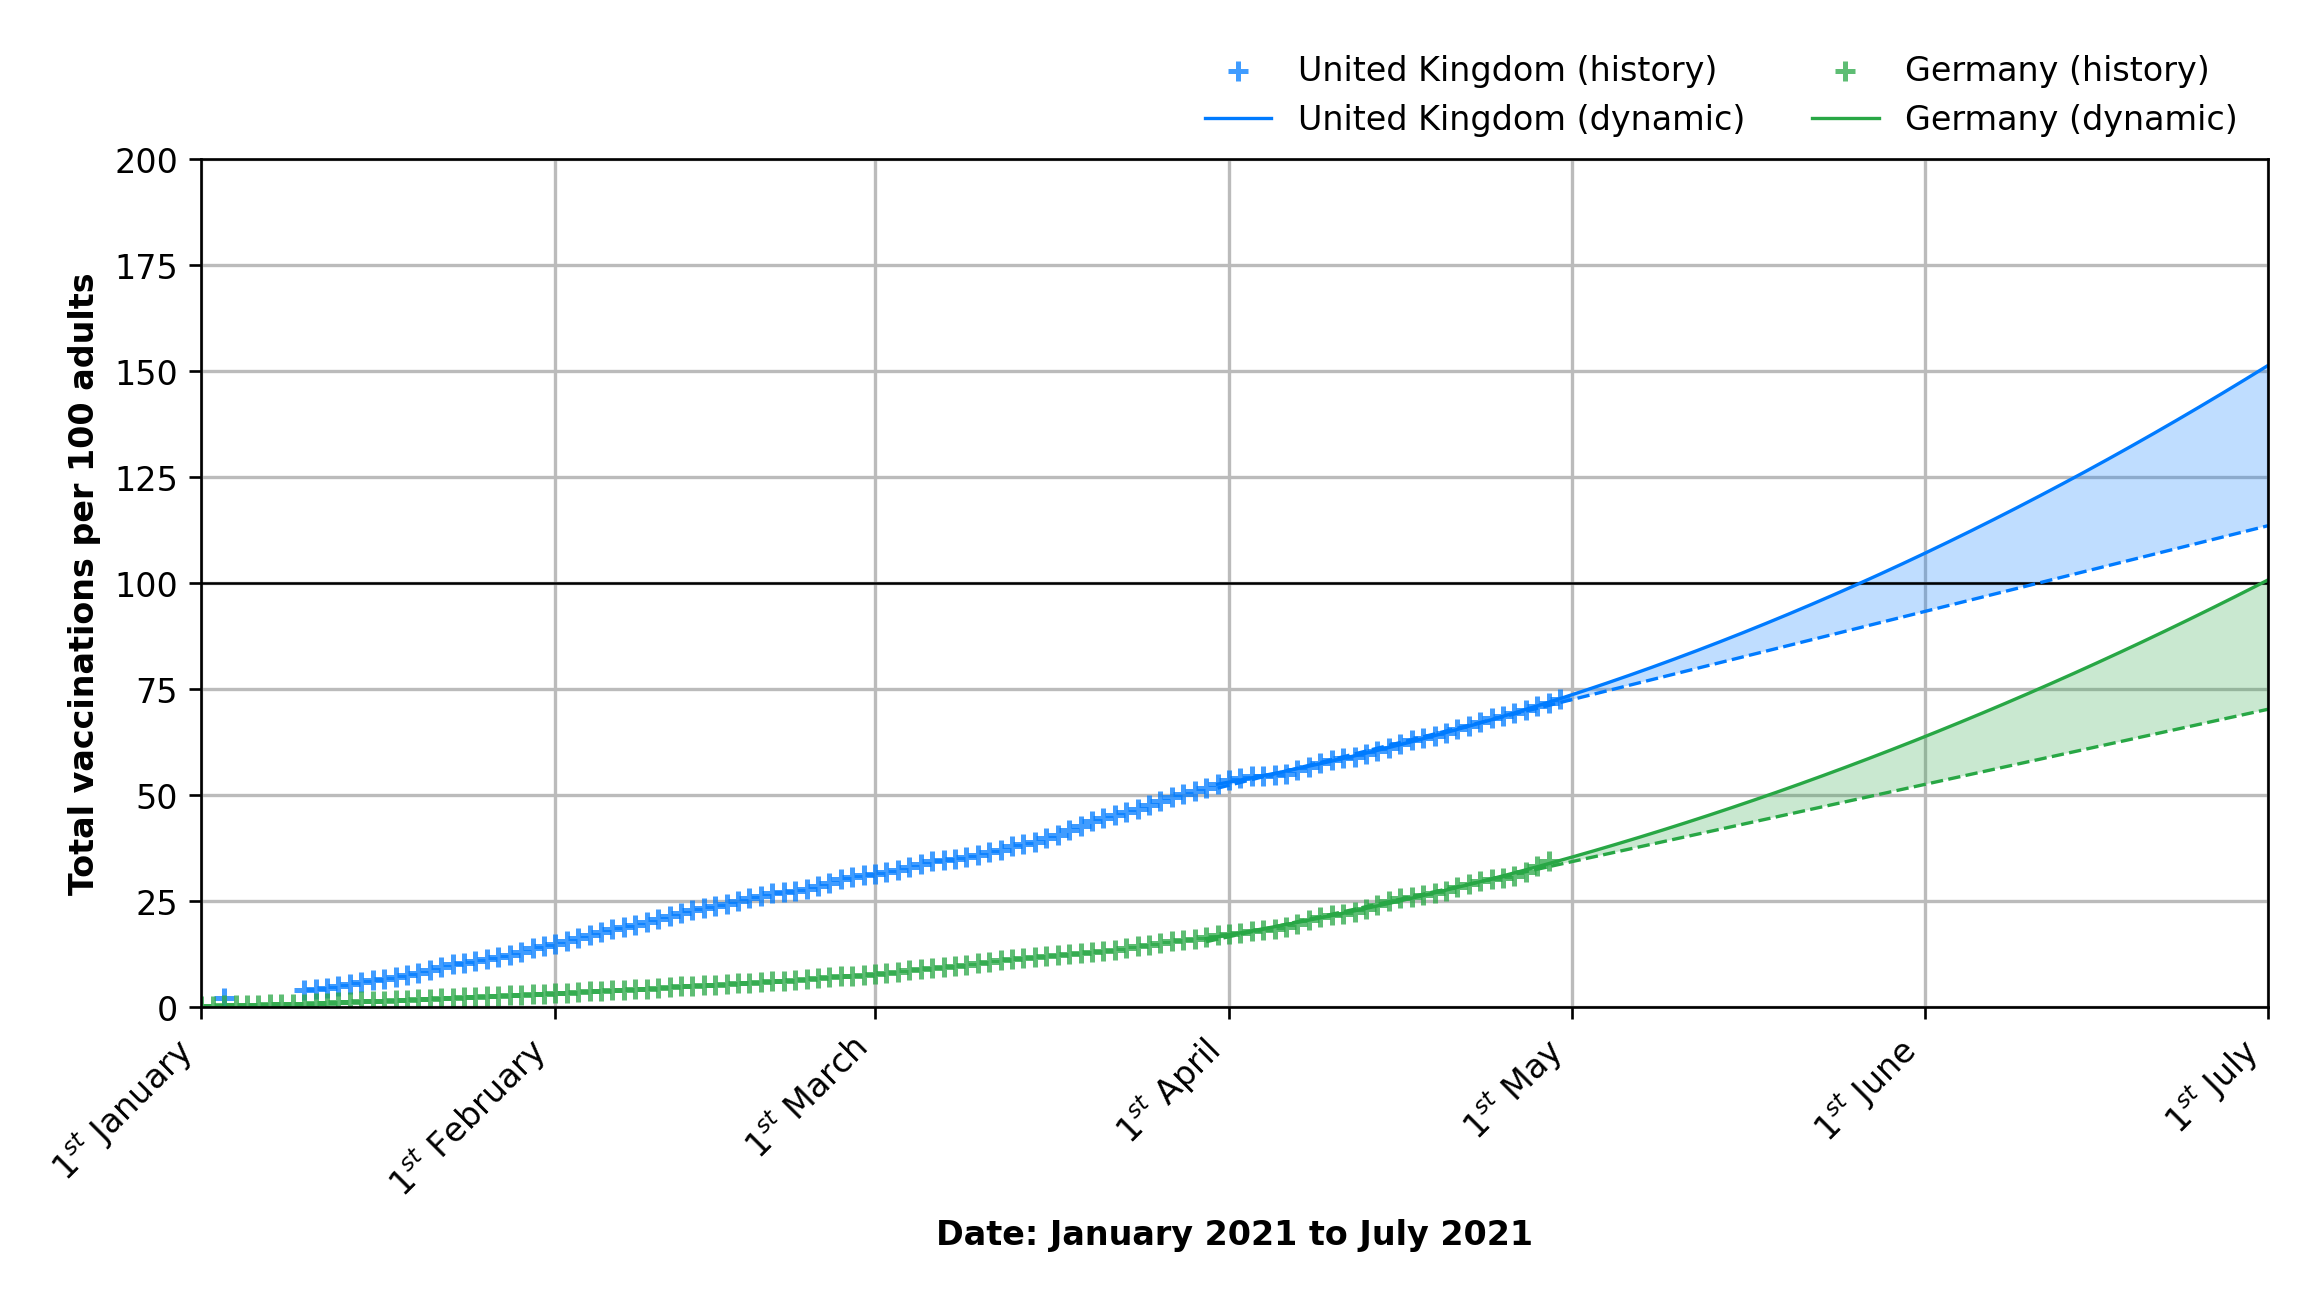
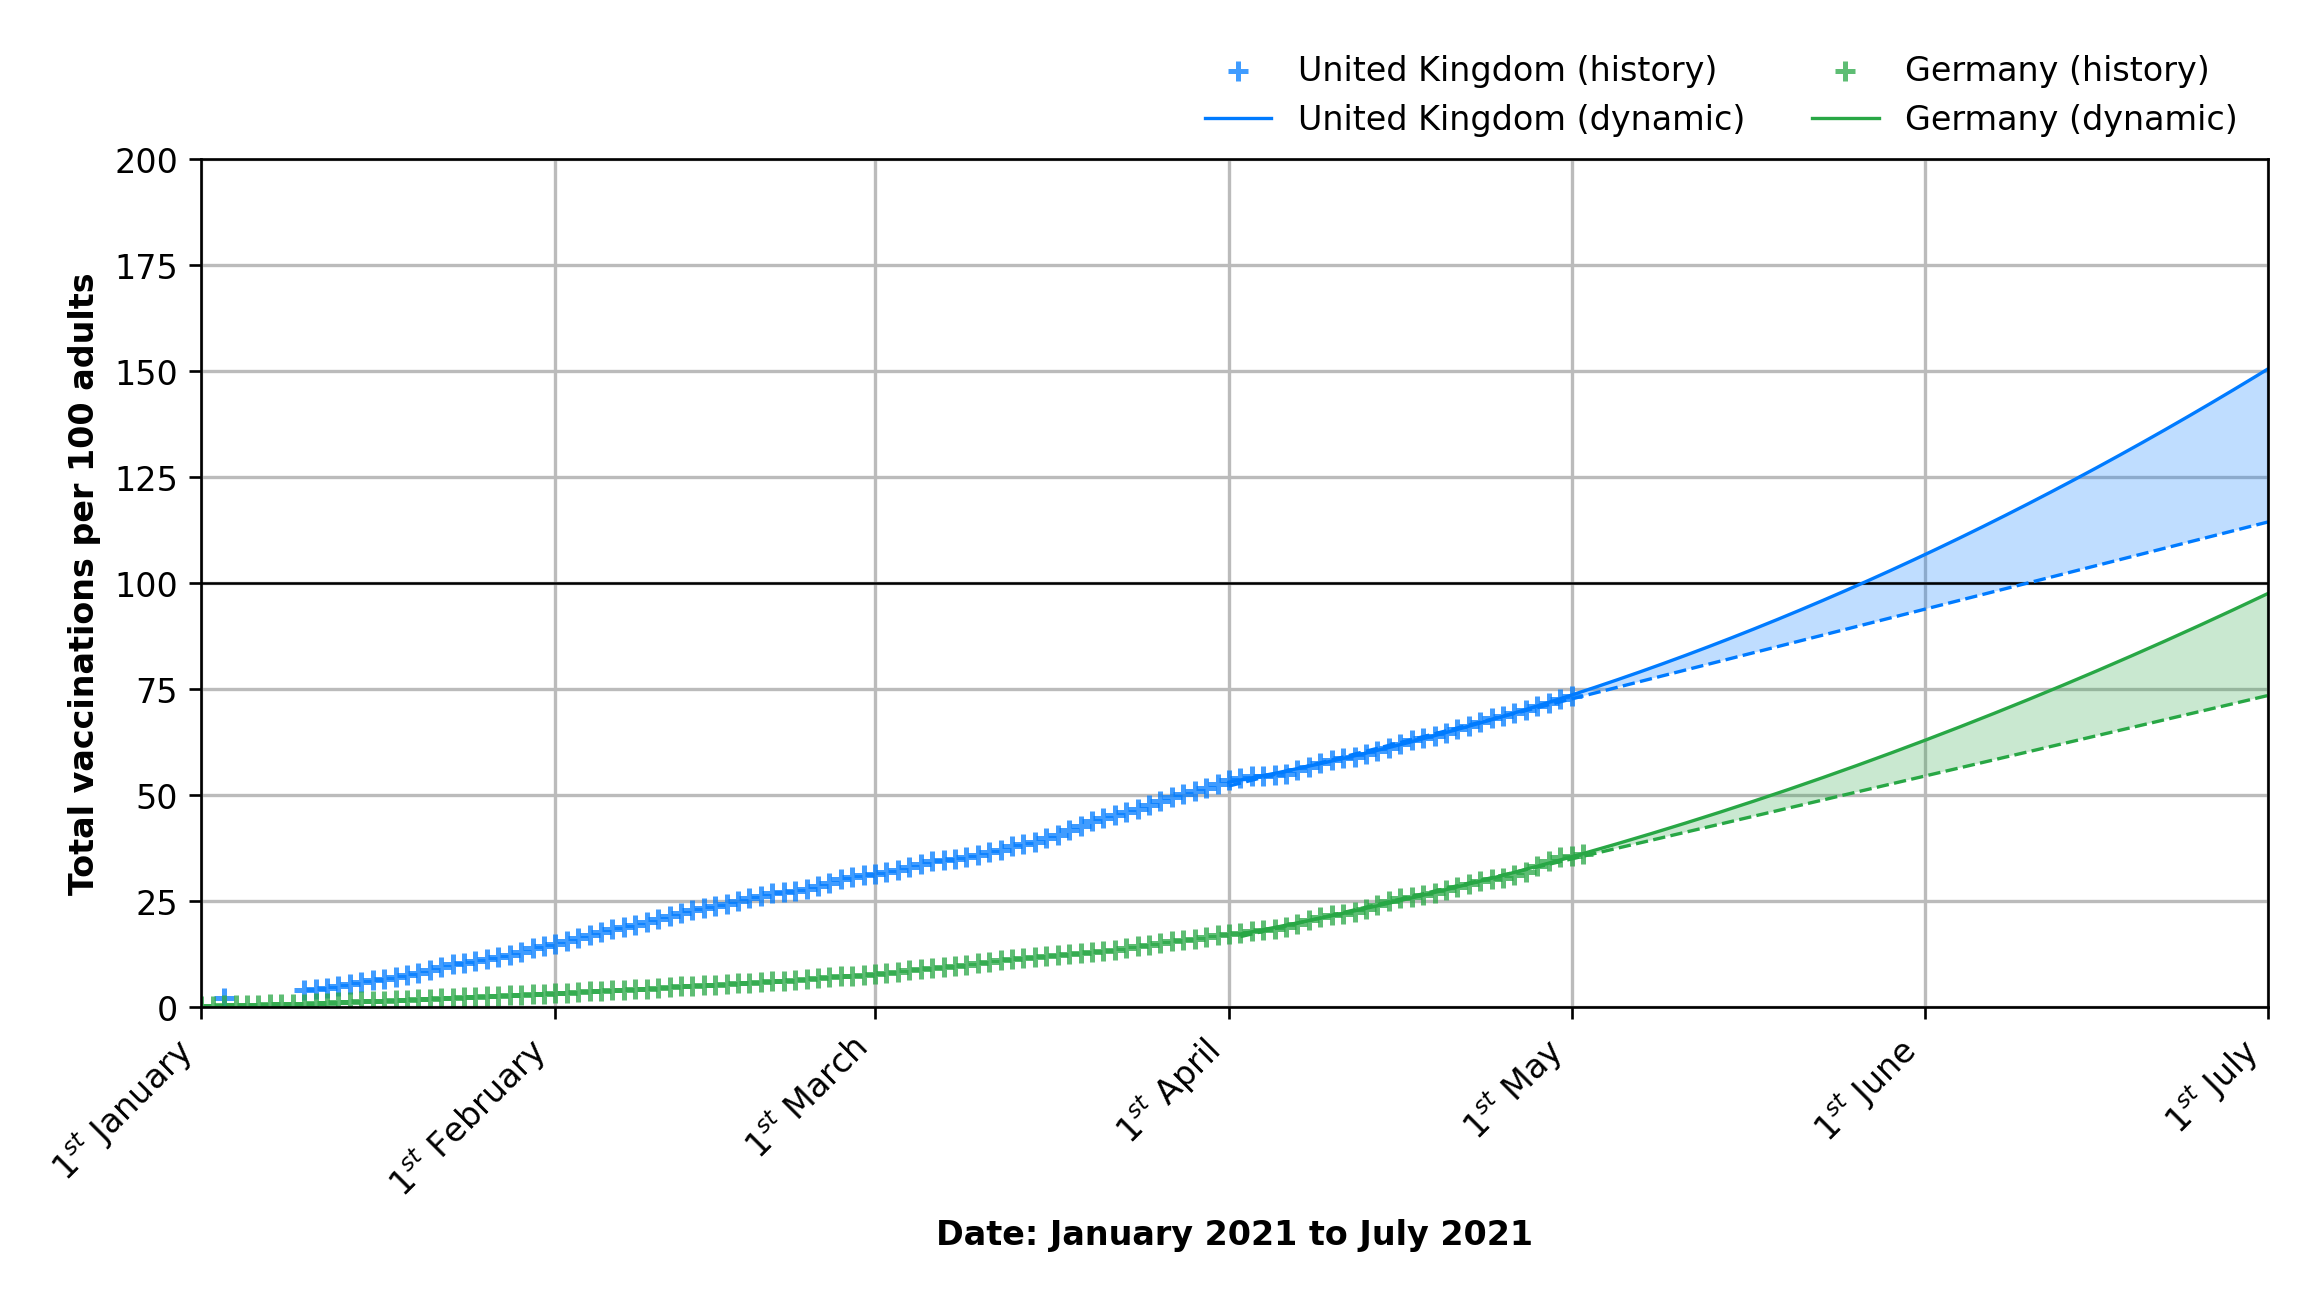
Deploying to gh-pages from @ lambdapioneer/vactrend@0b151e50bae144ff27c39ffb07cd62d871ed93a9 🚀

diff --git a/index.html b/index.html
@@ -37,13 +37,13 @@
                 <div class="card">
                     <div class="card-header">🇬🇧 United Kingdom</div>
                     <div class="card-body">
-                        <h3 class="font-weight-bold" style="color: #007bff">72.6 <small>(+0.79/d)</small></h3>
+                        <h3 class="font-weight-bold" style="color: #007bff">73.41 <small>(+0.76/d)</small></h3>
                         <p class="mt-n2">Vaccinations per 100 adults</p>
                         <h3 class=" font-weight-bold">27 May 2021</h3>
                         <p class="mt-n2">Earliest day: 100 vacc. per 100 adults</p>
-                        <h3 class=" font-weight-bold">28 July 2021</h3>
+                        <h3 class=" font-weight-bold">29 July 2021</h3>
                         <p class="mt-n2">Earliest day: 200 vacc. per 100 adults</p>
-                        <p class="card-text"><small class="text-muted">Last data from 30 April 2021.</small></p>
+                        <p class="card-text"><small class="text-muted">Last data from 01 May 2021.</small></p>
                     </div>
                 </div>
             </div>
@@ -52,13 +52,13 @@
                 <div class="card">
                     <div class="card-header">🇩🇪 Germany</div>
                     <div class="card-body">
-                        <h3 class="font-weight-bold" style="color: #28a745">34.34 <small>(+1.09/d)</small></h3>
+                        <h3 class="font-weight-bold" style="color: #28a745">35.98 <small>(+0.30/d)</small></h3>
                         <p class="mt-n2">Vaccinations per 100 adults</p>
-                        <h3 class=" font-weight-bold">01 July 2021</h3>
+                        <h3 class=" font-weight-bold">03 July 2021</h3>
                         <p class="mt-n2">Earliest day: 100 vacc. per 100 adults</p>
-                        <h3 class=" font-weight-bold">30 August 2021</h3>
+                        <h3 class=" font-weight-bold">05 September 2021</h3>
                         <p class="mt-n2">Earliest day: 200 vacc. per 100 adults</p>
-                        <p class="card-text"><small class="text-muted">Last data from 29 April 2021.</small></p>
+                        <p class="card-text"><small class="text-muted">Last data from 02 May 2021.</small></p>
                     </div>
                 </div>
             </div>
